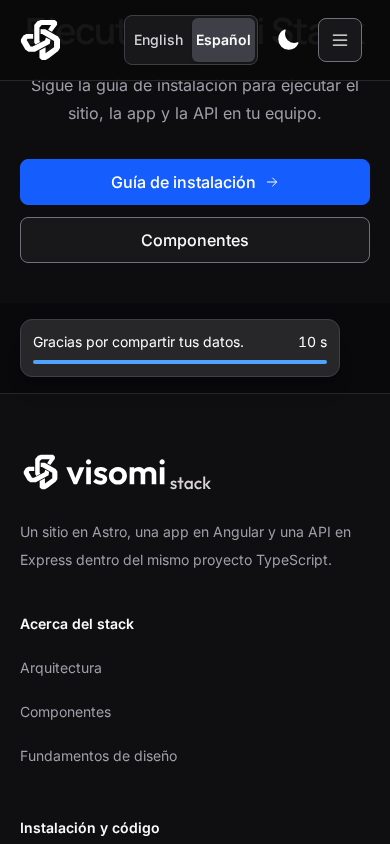
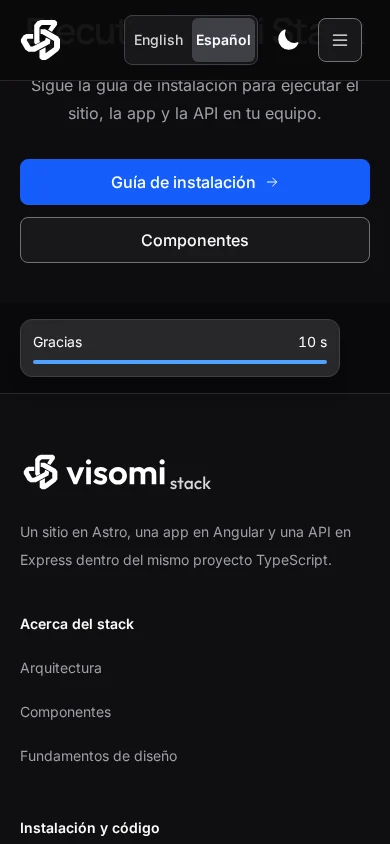
fix(privacy): shorten the Spanish consent acknowledgment

diff --git a/apps/web/app-e2e/auth/consent-captures.auth.spec.ts b/apps/web/app-e2e/auth/consent-captures.auth.spec.ts
@@ -18,6 +18,8 @@ const appearances = [
   { name: 'mobile-dark-es', locale: 'es', colorScheme: 'dark', viewport: mobile },
 ] as const;
 
+const acknowledgments = { en: 'Thanks for sharing.', es: 'Gracias' };
+
 async function capture(page: Page, info: TestInfo, name: string) {
   if (info.project.name === 'auth-chromium') {
     await page.evaluate(() => document.fonts.ready);
@@ -229,6 +231,7 @@ for (const surface of surfaces.slice(0, 2)) {
       await page.goto(surface.path(appearance.locale));
 
       const copy = browserPrivacyCopy[appearance.locale];
+      const acknowledgment = acknowledgments[appearance.locale];
       const choice = page.getByRole('region', { name: copy.title });
       const share = choice.getByRole('button', { name: copy.accept, exact: true });
       const confirmation = page.locator('[data-consent-confirmation]');
@@ -260,11 +263,11 @@ for (const surface of surfaces.slice(0, 2)) {
 
       await expect(choice).toBeHidden();
 
-      await expect(confirmation.getByText(copy.thanks)).toBeVisible();
+      await expect(confirmation.getByText(acknowledgment, { exact: true })).toBeVisible();
 
       await expect(confirmation.locator('button, a')).toHaveCount(0);
 
-      await expect(announcement).toHaveText(copy.thanks);
+      await expect(announcement).toHaveText(acknowledgment);
 
       await expect(seconds).toHaveText('10 s');
 
@@ -288,7 +291,7 @@ for (const surface of surfaces.slice(0, 2)) {
 
       await expect(confirmation.locator('progress')).toHaveJSProperty('value', 5);
 
-      await expect(announcement).toHaveText(copy.thanks);
+      await expect(announcement).toHaveText(acknowledgment);
 
       await expect(announcement).toHaveAttribute('data-announcements', '1');
 

diff --git a/libs/web/shared/observability/src/lib/privacy-copy.ts b/libs/web/shared/observability/src/lib/privacy-copy.ts
@@ -56,7 +56,7 @@ export const browserPrivacyCopy = {
     blocked: 'La configuración de privacidad de tu navegador bloquea el envío automático.',
     accept: 'Compartir',
     reject: 'No compartir',
-    thanks: 'Gracias por compartir tus datos.',
+    thanks: 'Gracias',
     purposeLink: 'Cómo usamos estos datos',
     purpose: 'Cómo usamos los datos de visitas, rendimiento y errores',
     analytics: 'Contamos las visitas por tipo de página e idioma para saber qué partes del sitio y de la app se usan.',
